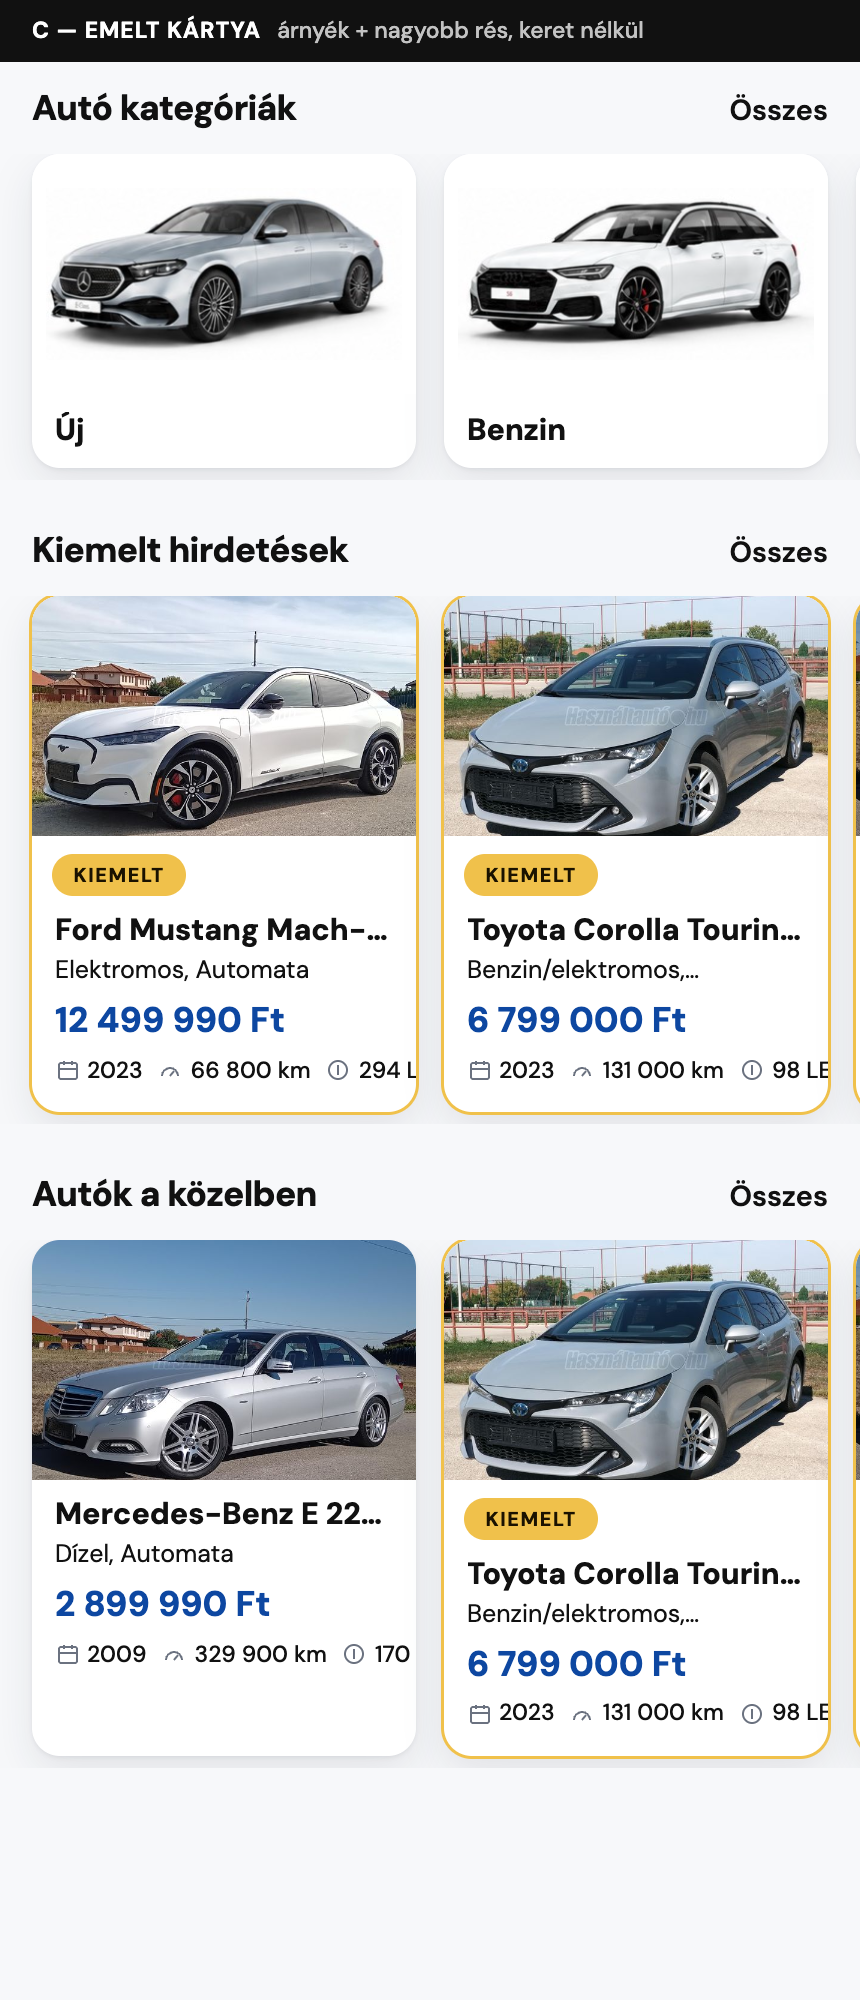
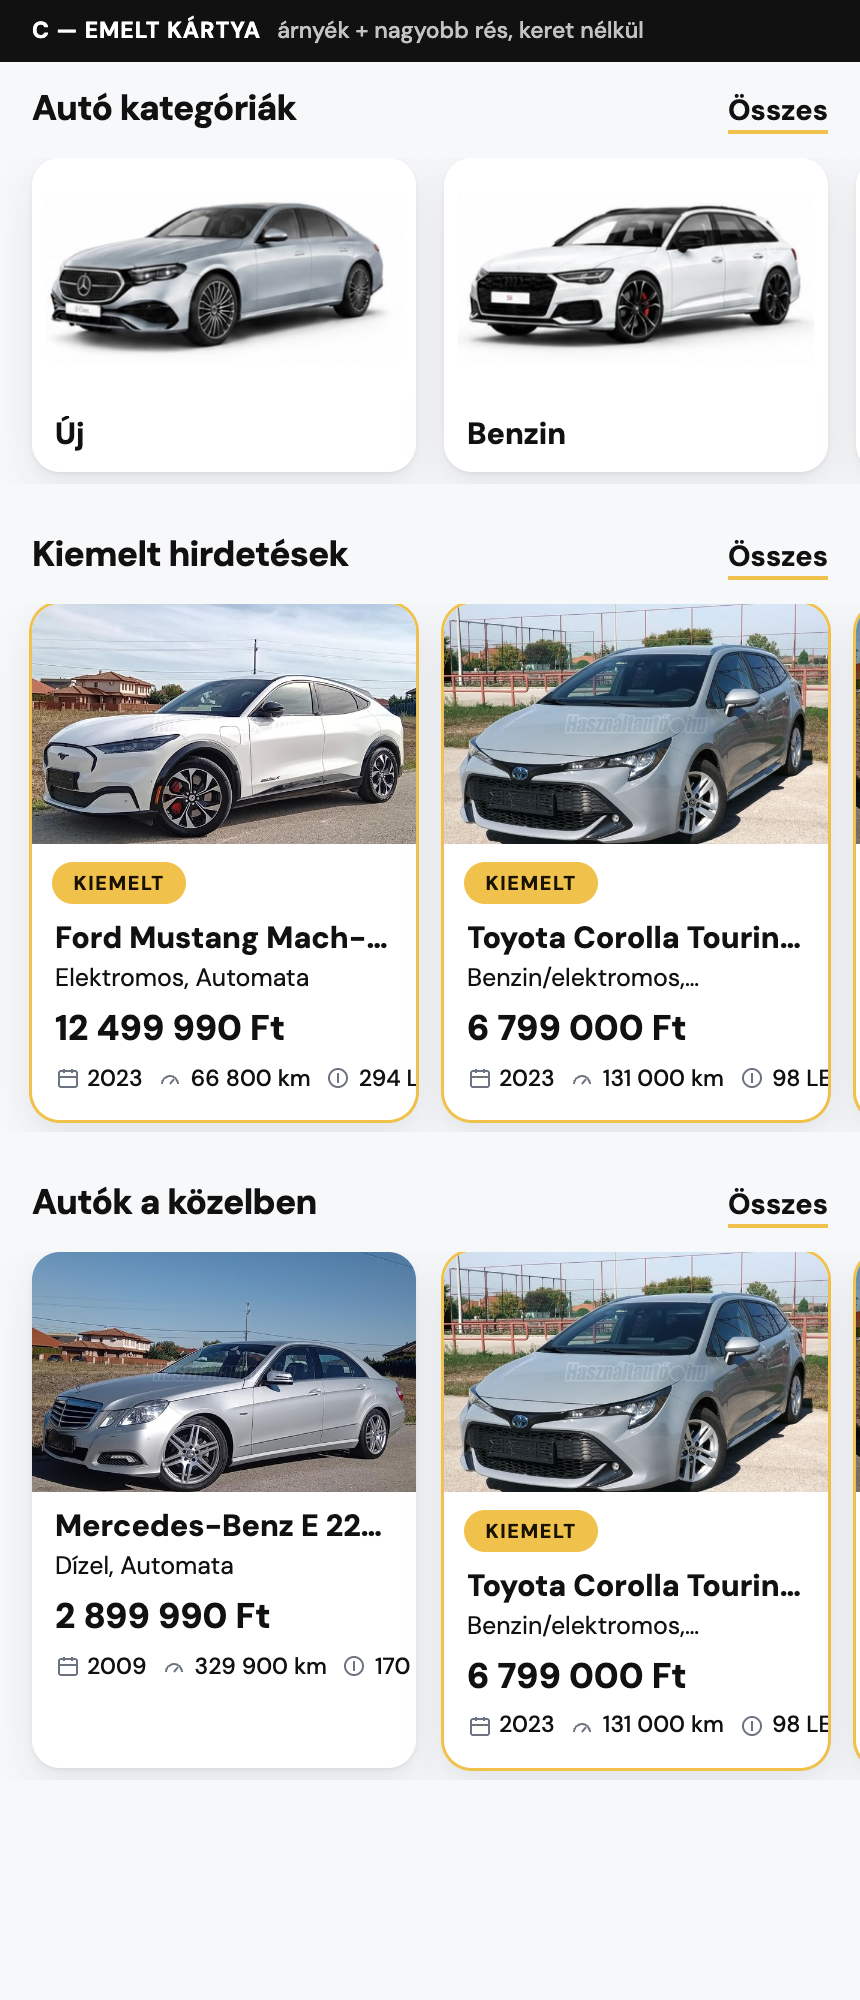
docs(demo): mobil csempe demók — fekete ár, sárga kiemelés, kék nélkül
- minden ár #111 (a kiemelt hirdetésé is), nincs kék ár
- "Összes" link fekete, sárga (#f0c14b) alávonással
- szekciócím előtt sárga 3px jelölő
- kékes szürkék helyett semleges szürke lap (#f1f0ed) / sáv (#f6f5f2)

diff --git a/docs/design-demos/mobil-csempe-4.html b/docs/design-demos/mobil-csempe-4.html
@@ -57,7 +57,14 @@
     letter-spacing: -0.02em;
     color: #111;
   }
-  .hf-all { font-size: 0.9rem; font-weight: 600; color: #111; text-decoration: none; }
+  .hf-all {
+    font-size: 0.9rem;
+    font-weight: 700;
+    color: #111;
+    text-decoration: none;
+    border-bottom: 2px solid #f0c14b;
+    padding-bottom: 1px;
+  }
 
   .hf-rail {
     display: flex;
@@ -139,7 +146,7 @@
     -webkit-box-orient: vertical;
     overflow: hidden;
   }
-  .hf-card-price { display: block; margin: 0.4rem 0.72rem 0; font-size: 1.1rem; font-weight: 800; color: #0d47a1; }
+  .hf-card-price { display: block; margin: 0.4rem 0.72rem 0; font-size: 1.1rem; font-weight: 800; color: #111; }
   .hf-card-specs { display: block; margin: 0.4rem 0.72rem 0.7rem; }
   .hf-card-specs-row { display: flex; flex-wrap: nowrap; align-items: center; gap: 0.5rem; }
   .hf-card-spec {
@@ -154,7 +161,7 @@
   .hf-card-spec svg { width: 12px; height: 12px; flex: 0 0 auto; color: #6b7280; }
 
   /* ---------------- A) Willhaben-stílus: keret nélkül, szürke lap ---------------- */
-  body.v-a { background: #eef1f7; }
+  body.v-a { background: #f1f0ed; }
   body.v-a .feed { padding: 0 0 28px; }
   body.v-a .hf-section {
     background: #fff;
@@ -164,11 +171,11 @@
   body.v-a .hf-head {
     margin-bottom: 0.7rem;
     padding-bottom: 0.65rem;
-    border-bottom: 1px solid #e0e6f0;
+    border-bottom: 1px solid #e7e5e1;
   }
-  body.v-a .hf-all { color: #0b63c4; }
+  body.v-a .hf-title { padding-left: 0.6rem; border-left: 3px solid #f0c14b; }
   body.v-a .hf-card { background: transparent; border: 0; border-radius: 0; }
-  body.v-a .hf-card--kategoria .hf-card-media { background: #f4f6fb; }
+  body.v-a .hf-card--kategoria .hf-card-media { background: #f6f5f2; }
   body.v-a .hf-card-label,
   body.v-a .hf-card-sub,
   body.v-a .hf-card-price,
@@ -176,18 +183,19 @@
   body.v-a .badge-row { margin-left: 0; margin-right: 0; }
   body.v-a .hf-card-label { margin-top: 0.45rem; font-weight: 700; }
   body.v-a .hf-card-sub { color: #6b7280; }
-  body.v-a .hf-card-price { color: #0b63c4; }
+  body.v-a .hf-card-price { color: #111; }
 
   /* ---------------- B) Szekciósáv: a sáv háttere emeli ki a kártyát ---------------- */
   body.v-b { background: #fff; }
   body.v-b .hf-section {
-    background: #f4f6fb;
-    border-top: 1px solid #e6eaf2;
-    border-bottom: 1px solid #e6eaf2;
+    background: #f6f5f2;
+    border-top: 1px solid #e9e7e3;
+    border-bottom: 1px solid #e9e7e3;
     padding: 14px 0 16px;
     margin: 0 0 14px;
   }
-  body.v-b .hf-card { border-color: #dfe3ea; }
+  body.v-b .hf-title { padding-left: 0.6rem; border-left: 3px solid #f0c14b; }
+  body.v-b .hf-card { border-color: #e2dfd9; }
   body.v-b .hf-card--featured { border-color: #f0c14b; }
   body.v-b .hf-card--kategoria .hf-card-media { background: #fff; }
 
@@ -211,11 +219,11 @@
     gap: 12px;
     align-items: start;
     padding: 12px var(--gutter);
-    border-bottom: 1px solid #e0e6f0;
+    border-bottom: 1px solid #e7e5e1;
     text-decoration: none;
     color: #111;
   }
-  body.v-d .list .row:first-child { border-top: 1px solid #e0e6f0; }
+  body.v-d .list .row:first-child { border-top: 1px solid #e7e5e1; }
   body.v-d .list .thumb {
     position: relative;
     aspect-ratio: 4 / 3;
@@ -236,7 +244,7 @@
   }
   body.v-d .list .row-sub { display: block; margin: 2px 0 0; font-size: 0.76rem; color: #6b7280; }
   body.v-d .list .row-specs { margin: 5px 0 0; display: flex; gap: 0.6rem; font-size: 0.74rem; color: #374151; }
-  body.v-d .list .row-price { display: block; margin: 5px 0 0; font-size: 1.05rem; font-weight: 800; color: #0b63c4; }
+  body.v-d .list .row-price { display: block; margin: 5px 0 0; font-size: 1.05rem; font-weight: 800; color: #111; }
   body.v-d .list .badge { display: inline-block; margin: 0 0 4px; }
   body.v-d .hf-head { align-items: center; }
 
